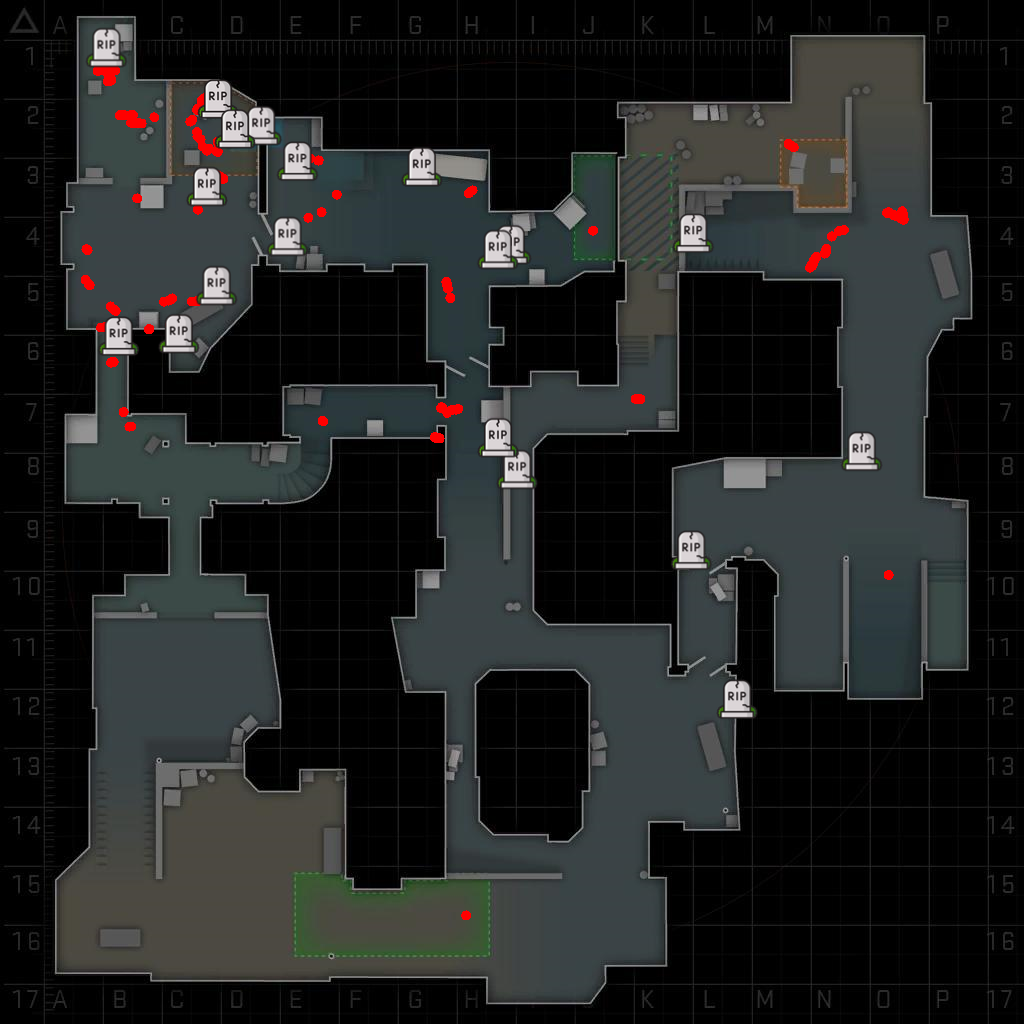
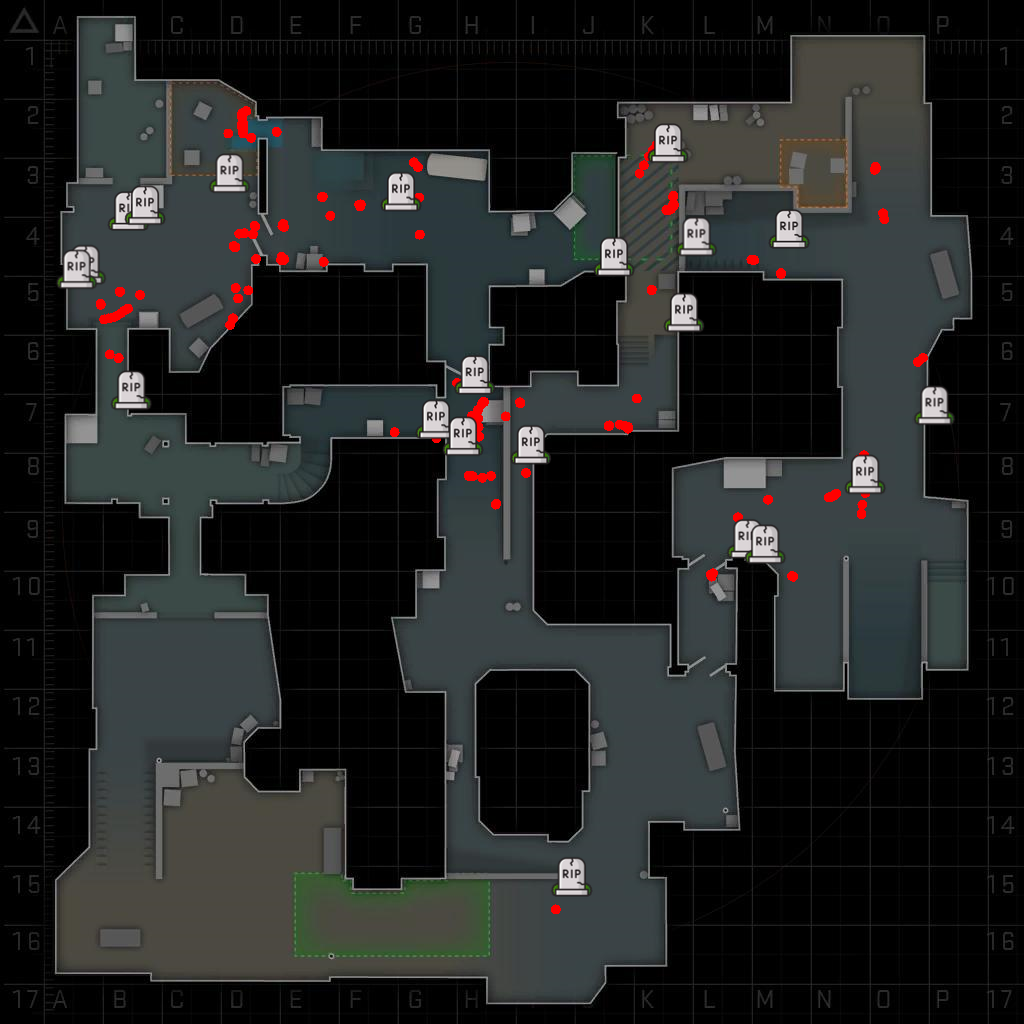
Corrigindo o nome do método HeatMap e otimizando o tempo para carregar a demo com o GenerateData()

diff --git a/DemoCSGO/Core/DemoParserCore.cs b/DemoCSGO/Core/DemoParserCore.cs
@@ -21,7 +21,99 @@ namespace DemoCSGO.Core
         {
         }
             
-        private void OpenDemo() => _demo = new DemoParser(File.OpenRead("C:\\Downloads_hltv\\vitality-vs-natus-vincere-m3-dust2.dem"));
+        private void OpenDemo() => _demo = new DemoParser(File.OpenRead("C:\\Users\\vitor\\Downloads\\BLAST-Pro-Series-Madrid-2019-astralis-vs-natus-vincere-dust2\\astralis-vs-natus-vincere-dust2.dem"));
+
+        public void GenerateData()
+        {
+            List<Models.Player> result = new List<Models.Player>();
+            List<Weapon> weapons = new List<Weapon>();
+
+            OpenDemo();
+            _demo.ParseHeader();
+            bool hasMatchStarted = false;
+
+            _demo.MatchStarted += (sender, e) => {
+                hasMatchStarted = true;
+            };
+
+            #region GetPlayers
+            _demo.PlayerKilled += (sender, e) => {
+                if (hasMatchStarted)
+                {
+                    //Vitima
+                    if (result.Any(p => p.Name == e.Victim.Name))
+                    {
+                        var victim = result.Where(p => p.Name == e.Victim.Name).First();
+                        victim.Death++;
+                    }
+                    else
+                    {
+                        result.Add(new Models.Player(e.Victim.Name, 0, 1));
+                    }
+
+                    //Assasino
+                    if (result.Any(p => p.Name == e.Killer.Name))
+                    {
+                        var Killer = result.Where(p => p.Name == e.Killer.Name).First();
+                        Killer.Killed++;
+                    }
+                    else
+                    {
+                        result.Add(new Models.Player(e.Killer.Name, 1, 0));
+                    }
+                }
+            };
+            #endregion
+
+            #region GetWeapons
+            _demo.PlayerKilled += (sender, e) => {
+                if (hasMatchStarted)
+                {
+                    string nameWeaponFired = GetNameWeapon(e.Weapon.Weapon);
+                    if (weapons.Any(p => p.NameWeapon == nameWeaponFired))
+                    {
+                        var weapon = weapons.Where(p => p.NameWeapon == nameWeaponFired).FirstOrDefault();
+                        weapon.DeathQuantity++;
+                    }
+                    else
+                    {
+                        weapons.Add(new Weapon(nameWeaponFired, 1, Enum.GetName(typeof(EquipmentClass), e.Weapon.Class)));
+                    }
+                }
+            };
+            #endregion
+
+            #region GetHeatMap
+            string nomeJogador = "dupreeh";
+            mapDust2 = MakeMap("de_dust2", -2476, 3239, 4.4f);
+            List<Vector2> shootingPositions = new List<Vector2>();
+            List<Vector2> deathPositions = new List<Vector2>();
+
+            _demo.PlayerKilled += (sender, e) => {
+                if (e.Victim.Name.Contains(nomeJogador) && hasMatchStarted)
+                {
+                    Vector2 vet = TrasnlateScale(e.Victim.LastAlivePosition.X, e.Victim.LastAlivePosition.Y);
+                    deathPositions.Add(vet);
+                }
+            };
+            _demo.WeaponFired += (sender, e) => {
+                if (e.Shooter.Name.Contains(nomeJogador) && hasMatchStarted
+                   && e.Weapon.Weapon != EquipmentElement.Knife && e.Weapon.Weapon != EquipmentElement.Molotov
+                   && e.Weapon.Weapon != EquipmentElement.Smoke && e.Weapon.Weapon != EquipmentElement.Flash
+                   && e.Weapon.Weapon != EquipmentElement.Decoy && e.Weapon.Weapon != EquipmentElement.HE)
+                {
+                    Vector2 vet = TrasnlateScale(e.Shooter.Position.X, e.Shooter.Position.Y);
+                    shootingPositions.Add(vet);
+                }
+            };
+            #endregion
+
+            _demo.ParseToEnd();
+
+            WriteJsonFile("players", JsonConvert.SerializeObject(result));
+            WriteJsonFile("weapons", JsonConvert.SerializeObject(weapons));
+            DrawingPoints(shootingPositions, deathPositions);
+        }
 
         public void GeneratePlayers()
         {
@@ -62,9 +154,11 @@ namespace DemoCSGO.Core
         public void GenerateWeapons()
         {
             List<Weapon> result = new List<Weapon>();
+
             OpenDemo();
             _demo.ParseHeader();
             bool hasMatchStarted = false;
+
             _demo.MatchStarted += (sender, e) => {
                 hasMatchStarted = true;
             };
@@ -96,9 +190,9 @@ namespace DemoCSGO.Core
             _demo = new DemoParser(file);
         }
 
-        public void GenerateHeadMap()
+        public void GenerateHeatMap()
         {
-            string name = "Nivera";
+            string name = "dupreeh";
             mapDust2 = MakeMap("de_dust2", -2476, 3239, 4.4f);
             OpenDemo();
             _demo.ParseHeader();

diff --git a/DemoCSGO/Controllers/DemoController.cs b/DemoCSGO/Controllers/DemoController.cs
@@ -25,9 +25,10 @@ namespace DemoCSGO.Controllers
         {
             try
             {
-                _core.GenerateWeapons();
-                _core.GeneratePlayers();
-                _core.GenerateHeadMap();
+                _core.GenerateData();
+                //_core.GenerateWeapons();
+                //_core.GeneratePlayers();
+                //_core.GenerateHeatMap();
                 return Ok("Dados carregados");
             }
             catch (System.Exception ex)
@@ -51,8 +52,8 @@ namespace DemoCSGO.Controllers
         }
 
         [HttpGet]
-        [Route("GetHeadMap")]
-        public async Task<ActionResult> GetHeadMap()
+        [Route("GetHeatMap")]
+        public async Task<ActionResult> GetHeatMap()
         {
             return Ok(System.IO.File.OpenRead(Path.Combine(Environment.CurrentDirectory, "images", "heat_map.png")));
         }

diff --git a/DemoCSGO/Interfaces/IDemoParserCore.cs b/DemoCSGO/Interfaces/IDemoParserCore.cs
@@ -11,6 +11,7 @@ namespace DemoCSGO.Core
         void GenerateWeapons();
         void LoadDemo(FileStream demo);
         void GeneratePlayers();
-        void GenerateHeadMap();
+        void GenerateHeatMap();
+        void GenerateData();
     }
 }
